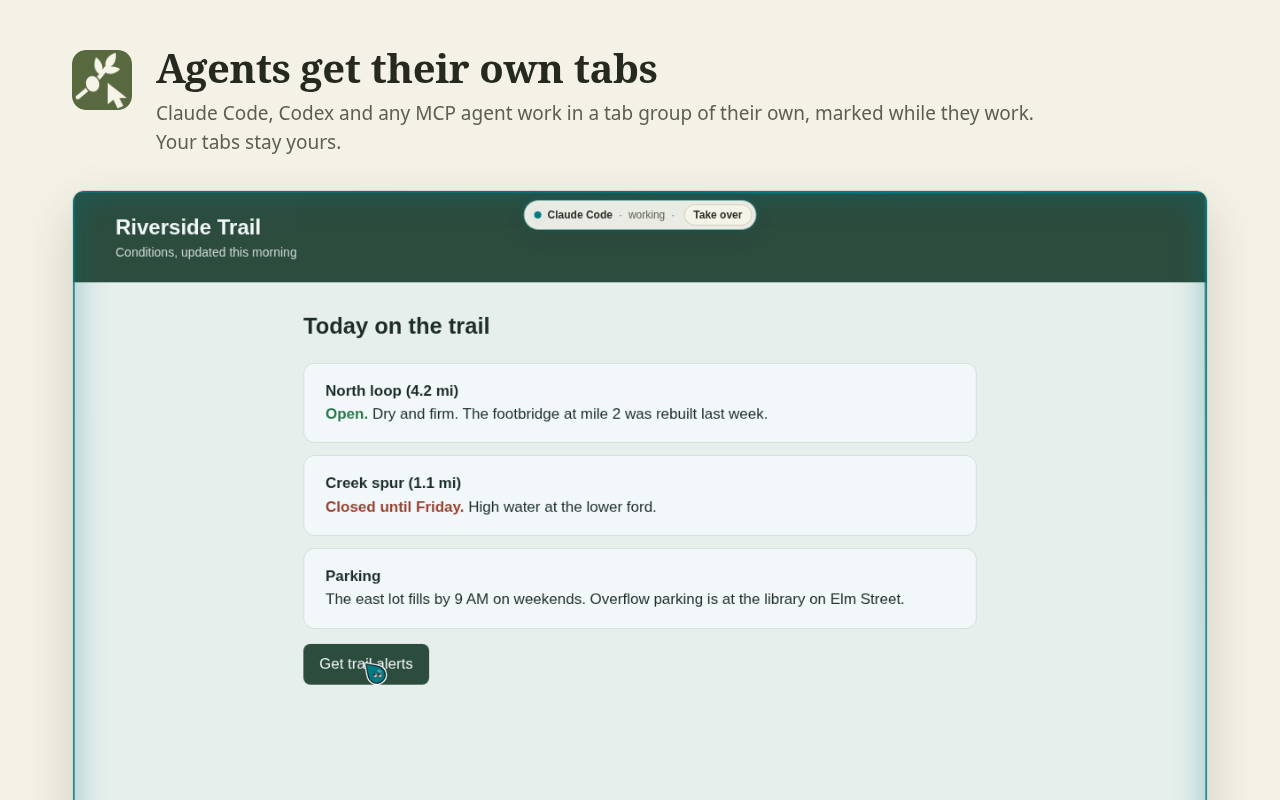
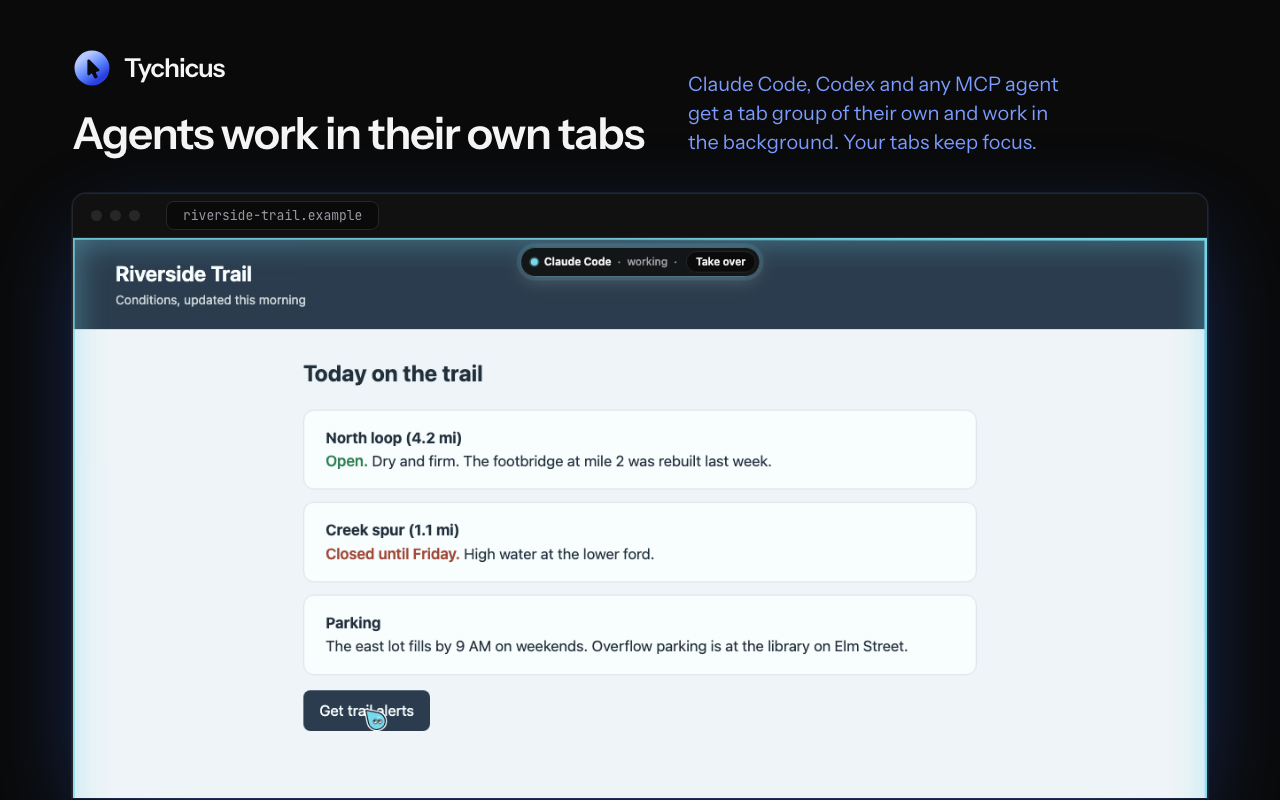
Store: listing and images in the new brand, every screenshot unblocked (tychicus#37)
* Store: listing and images in the new brand, every screenshot unblocked

scripts/store-shots.mjs draws the store images in media/brand/hero.png's style:
the night ground, the generated icon.svg and mark-blue.svg, Instrument Sans and
JetBrains Mono, and PALETTE from media/brand/build.mjs. The side panel is
captured in its dark scheme on any computer. The page the agent reads is served
by the script as riverside-trail.example through Chromium's
--host-resolver-rules, so no 127.0.0.1 address shows in a tool line, and it
uses a neutral slate instead of green.

All five screenshots render. The welcome and Settings > Agents screens stopped
showing another product name with the rename in tychicus#12, so the script's old-name
gate passes them and store/listing.md lists them again. The listing's
description now leads with the agent's own tab group, background tabs without
stolen focus, MCP agents, Local Studio, site permissions, private mode, no
account, no analytics and the AGPL.

startHarness in cli/test/e2e-harness.mjs now passes chromiumArgs to Chromium;
it accepted them and dropped them before.

* Store shots: say no key is needed with Local Studio, not that the extension never holds one

The welcome and models slides claimed the extension holds no API keys, but
"Use an API key instead" stores one in the extension. Both now say what holds
for every user.

---------

diff --git a/browser/store/listing.md b/browser/store/listing.md
@@ -43,28 +43,31 @@ Lets AI agents work in your browser, in their own tab group, while you keep work
 **Description:**
 
 ```
-Tychicus lets an AI agent work in your browser while you keep working. The agent gets its own tab group. It opens pages, reads them, clicks, fills in forms and checks its own work there, and your tabs stay yours.
+Tychicus lets an AI agent work in your browser while you keep working. The agent gets a tab group of its own and works there in the background: it opens pages, reads them, clicks, fills in forms and checks its own work, without taking focus from the tab you are using. Your tabs stay yours.
 
-Tychicus comes three ways: a Local Studio plugin, an app you install on its own, and this Chrome extension. The extension works with or without Local Studio.
+What it does well:
 
-Use it two ways:
-
-• Chat in the side panel. With Local Studio on your computer, the panel runs on it by default: your local models, and the plans you signed in to inside Local Studio, with no API key or sign-in in the extension. Without Local Studio, add an API key from Anthropic, OpenAI, Google, OpenRouter and others, or use a free OpenRouter key; with Local Studio, "Use an API key instead" does the same.
-• Connect the coding agent you already use. Claude Code, Codex and any MCP agent can drive your browser through the free Tychicus helper on your computer.
+• Its own tab group. Each agent works in a group of its own tabs, marked while it works, with a pointer that shows what it is doing and a "Take over" button.
+• Background tabs, no stolen focus. The agent acts in its tabs without bringing them to the front, so you can keep typing somewhere else.
+• The agents you already use. Claude Code, Codex, Cursor, OpenCode, pi and any other MCP agent drive your browser through the free Tychicus helper on your computer. With the helper and your own Tailscale or Cloudflare tunnel, claude.ai, ChatGPT and grok.com can use it too.
+• Local models through Local Studio. With Local Studio on your computer, the side panel chats on your local models and the plans you signed in to there, with no API key or sign-in in the extension.
+• Or bring an API key from Anthropic, OpenAI, Google, OpenRouter and others, or use a free OpenRouter key.
 
 You stay in charge:
 
-• The agent can't open a new site until you allow it.
+• The agent can't open a new site until you allow it. Allowed sites are listed in Settings, where you can remove them.
 • It stops and hands the tab to you for sign-ins and captchas.
-• Private mode only sends prompts to models that don't keep them, or to your own machines.
+• Private mode sends prompts only to models that don't keep them, or to your own machines.
 
-Tychicus has no account and no analytics, and it runs no servers of its own. Your chats and settings stay on your computer. Your messages, and what the agent reads, go only to the AI you picked.
+No account, no analytics, and open source under the AGPL-3.0. Tychicus runs no servers of its own. Your chats and settings stay on your computer, and your messages, and what the agent reads, go only to the AI you picked.
+
+Tychicus comes three ways: a Local Studio plugin, an app you install on its own, and this Chrome extension. The extension works with or without Local Studio.
 
 A note on provider terms: using a consumer chat subscription through automation may break that provider's terms of service. Some allow it, some forbid it, and terms change. Tychicus doesn't decide this for you. Read your provider's terms before you connect a subscription; API keys under a developer agreement are the safer route where terms are unclear.
 
 Local Studio chats need macOS or Linux for now.
 
-Free software under the AGPL-3.0. Source: https://github.com/baney75/tychicus
+Source: https://github.com/baney75/tychicus
 Built on 0xSero's agent bridge and Mario Zechner's Sitegeist.
 ```
 
@@ -75,9 +78,8 @@ Built on 0xSero's agent bridge and Mario Zechner's Sitegeist.
 **Images:**
 
 - Icon: `static/icon-128.png`
-- Screenshots, 1280x800, in this order: `store/screenshots/local-studio.png`, `store/screenshots/models.png`,
-  `store/screenshots/agents.png`. `scripts/store-shots.mjs` also draws `welcome.png` and `site-access.png`, but only once
-  those screens in the panel stop showing the old product name; it refuses them until then.
+- Screenshots, 1280x800, in this order: `store/screenshots/welcome.png`, `store/screenshots/agents.png`,
+  `store/screenshots/local-studio.png`, `store/screenshots/models.png`, `store/screenshots/site-access.png`.
 - Small promo tile, 440x280: `store/promo-small.png`
 - Marquee, 1400x560: `store/promo-marquee.png`
 

diff --git a/browser/CHANGELOG.md b/browser/CHANGELOG.md
@@ -117,6 +117,7 @@
 - The floating "Artifacts" pill over the chat is gone. Artifacts open from a header button with a count badge and from their tool cards.
 - The launcher harnesses run (`~/.config/tabkyra/tabkyra`) sets `NODE_COMPILE_CACHE`: a small start-up saving, about 10 ms of 120 on one machine and close to run-to-run noise (`bridge-metrics.mjs --only launcher`).
 - Side panel polish (D25). The header keeps the chat title, Past chats, New chat, More and Settings; Copy chat, Record a skill and the theme are under More (a keyboard menu). Every icon has a tooltip on hover and on keyboard focus; recording shows a red "Recording" pill. The empty chat's starter chips are Summarize this page, Research with sources, Fill a form and Compare tabs. The composer names the model readably with its provider ("DeepSeek V4.1 Flash · OpenRouter"); the full id is the tooltip. Settings has six tabs that wrap instead of scrolling out of sight: Providers (keys and custom providers, with a search box, keyed providers first, Enter to save and "Choose a model" after a save), Skills, Bridge, Privacy (with the CORS proxy), Costs, About (with updates). Past chats focus the search box (Enter opens the top match), rename in place and delete with Undo. Toasts sit below the header in the panel's colors and replace each other instead of stacking. `test/panel-ui.test.mjs`.
+- The Chrome Web Store images and listing now show the new blue Tychicus brand. `scripts/store-shots.mjs` draws every screenshot and promo tile in `media/brand/hero.png`'s style: its night ground, the generated `icon.svg` and `mark-blue.svg`, Instrument Sans and JetBrains Mono, and the palette from `media/brand/build.mjs`. The panel is captured in its dark scheme on any computer, and the page the agent reads is served as `riverside-trail.example` (mapped to loopback with Chromium's `--host-resolver-rules`), so no 127.0.0.1 address shows in a tool line. All five screenshots render now: the welcome and Settings > Agents screens no longer show another product name, so `store/listing.md` lists `welcome.png` and `site-access.png` again and its description leads with the tab group, background tabs, MCP agents, Local Studio, site permissions and private mode. `startHarness` in `cli/test/e2e-harness.mjs` now passes its `chromiumArgs` to Chromium; it took them and dropped them before.
 
 ### Fixed
 - `install --release` now restarts the services still running the old version, and `remote fix` finds them too. A service keeps the program it started with, so after the `release` pointer moved, serve, the Cloudflare tunnel, hub and link kept running the old version and install said nothing (issue #23). Install now reads which version folder each installed Tychicus service's process runs from (launchd's pid and `ps` on macOS, systemd's MainPID and `/proc/<pid>/exe` on Linux, the recorded pid and `Get-Process` on Windows), restarts the ones on another version in order (serve, cloudflared, hub, link) through the same service install setup uses, run by the new version's program so the launcher names it, and reads back that each now runs the release (and that serve answers, when `remote.json` says where). `--no-restart` prints one line per stale service with the command that restarts it, `<release>/tychicus install --restart-services`; a failed restart prints that command and exits 1. `remote fix` (and `--dry-run`) plans a restart of serve or the tunnel when it runs a version other than `release`. A service run from a checkout or npm link is not counted. Tests: the issue 23 cases in `cli/test/release-install.test.mjs` and `cli/test/remote-fix.test.mjs`.
